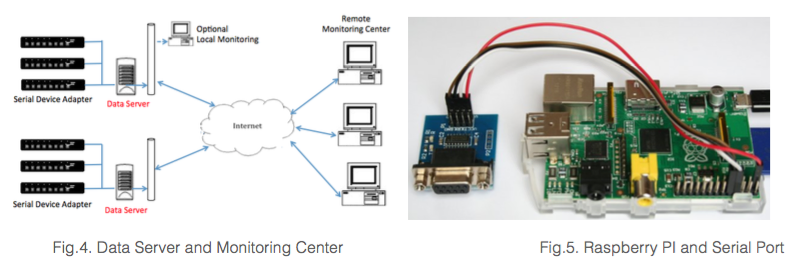
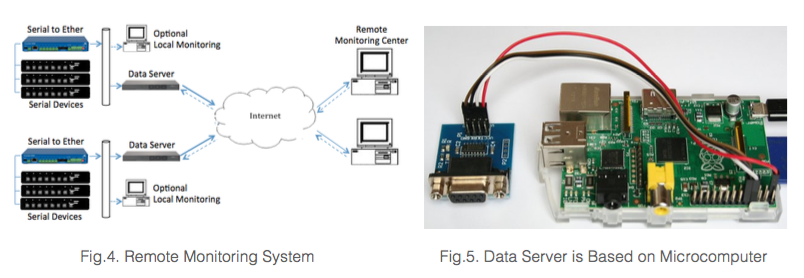
edit

diff --git a/index.html b/index.html
@@ -19,100 +19,102 @@
 	<div class="container">
 		<div class="section">
 			<h3>An open-source C++ library for network programming (NetB)</h3>
-			<p>NetB was originally initiated as my class project for Computer Networks, when I 
-				was a student at the George Washington University. It has been evolving as the 
-				result of my practice-based learning of network programming, which involves 
-				object-oriented design and design partterns, socket API, C++ exception handling, 
-				asynchronous I/O with event-driven notification (reactor design pattern), popular 
-				Internet protocols and message serialization. NetB is not a software framework; 
-				it is a C++ library consists of the components useful for assembling network 
-				applications (Fig.1)</p>
+			<p>NetB was originally initiated as my class project for Computer Networks, when I was 
+				a student at the George Washington University. It has been evolving as the result 
+				of my practice-based learning of network programming, which involves object-oriented 
+				design and design patterns, C++ exception handling, socket API, asynchronous I/O 
+				with socket de-multiplexing and event-driven notifications (reactor pattern), I/O 
+				buffering, important Internet protocols and protocol message serialization. NetB is 
+				not a software framework; it was designed as a C++ library consists of the components 
+				useful for assembling network applications (Fig.1). </p>
 			<img src="./images/fig-1.png" />
-			<p>NetB has been now released as an open-source software library under GPL license. 
-				The repository of source code and documents is at <a href="https://github.com/maoxuli/netb">
-				https://github.com/maoxuli/netb.</a>
-				It is still under development and there is no guarantee for the stability, but you 
-				may use it as a good example or a code base for network programming. NetB will 
-				supports the major operating systems for server, PC, mobile device, and microcomputer 
-				(Raspberry PI). </p>
+			<p>NetB has been now released as an open-source software library under GPL license. The 
+				repository of source code and documents is at <a href="https://github.com/maoxuli/netb">
+				https://github.com/maoxuli/netb</a>. It is still under development and there is no 
+				guarantee for the stability, but you may use it as a good example or a code base for 
+				network programming. NetB will supports the major operating systems for server, PC, 
+				mobile device, and microcomputer (Raspberry PI). </p>
 		</div>
 		<div class="section">
 			<h3>Real-Time Remote Monitoring and Peer-to-Peer VPN</h3>
-			<p>Typical remote monitoring system used in industry is based on local communication 
-				links such as RS422/RS485 serial bus or RF signal channels. A local monitoring 
-				station can connect a certain number of electronic sensors and cover a limited 
-				distance. Larger system usually means more monitoring stations and more attendants 
-				(Fig.2). I had worked in a team (as consultant and contract software engineer) to 
-				develop a remote monitoring system based on public Internet, which supports a large 
-				number of unattended monitoring stations with a single remote monitoring center (Fig.3).</p>
+			<p>Typical remote monitoring system used in industry is based on local communication links 
+				such as RS422/RS485 serial bus or RF signal channels. A local monitoring station can 
+				connect a certain number of electronic sensors and cover a limited distance. Larger 
+				system usually means more monitoring stations and more attendants (Fig.2). I had worked 
+				in a team (as consultant and contract software engineer) to develop a remote monitoring 
+				system based on public Internet, which supports a large number of unattended monitoring 
+				stations with a single remote monitoring center (Fig.3).</p>
 			<img src="./images/fig-2-3.png" />
-			<p>We developed a data server for unattended monitoring stations, which receives monitoring 
-				data from local serial devices and forwards it to remote monitoring center over public 
-				Internet (Fig.4). The hardware platform is a headless microcomputer (Fig.5). I was in 
-				charge of the development of software running on data server, as well as the SDK used 
-				for development of software running in the monitoring center. </p>
+			<p>Serial to Ethernet devices deployed in unattended monitoring stations receive monitoring 
+				data from local communication links and multicast it to a group on local Ethernet. We 
+				developed a data server based on a headless microcomputer (Raspberry PI) to filter and 
+				forward requested monitoring data from local network to remote monitoring center over 
+				public Internet (Fig.3-5). I was in charge of the development of software running on 
+				data server, as well as the SDK used for development of software running in the 
+				monitoring center. It involves socket programming for UDP protocol and  multicasting, 
+				as well as a high-efficient model for packet filtering and forwarding.</p>
 			<img src="./images/fig-4-5.png" />
 			<p>In addition, we developed a dedicated VPN (virtual private network) system to enhance 
-				the network security and performance. The VPN works in a peer-to-peer (P2P) manner 
-				and in most cases it can establish direct UDP connections across public Internet, 
-				which is a guarantee for high throughput and low latency.  </p>
+				the network security and performance. The VPN works in peer-to-peer (P2P) sytle and 
+				in most cases it can establish direct UDP connections across public Internet for 
+				devices behind NAT (network address translator), which is a guarantee for high 
+				throughput and low latency. My work involves TUN/TAP virtual network interfaces, NAT 
+				traversal with STUN/TURN/ICE and UDP hole punching. </p>
 		</div>
 		<div class="section">
 			<h3>Live and On-Demand Peer-to-Peer Video Streaming</h3>
-			<p>In a traditional media streaming system, content is constantly delivered directly from 
-				media server to each of the clients. Bandwidth cost usually determined application 
-				deployment and system expansion (Fig.6). I had ever led a team to develop a peer-to-peer 
-				(P2P) media streaming system to support low-cost streaming media. In the system, all 
-				clients work as peer nodes simultaneously functioning as “clients” and “servers” to the 
-				other nodes. Media content is firstly sliced into pieces by source server, and then the 
-				content pieces are delivered from server to nodes or forwarded from nodes to nodes as 
-				requested, rather than constantly (Fig.7). </p>
+			<p>Typical media streaming systems deliver content to clients directly from media server, 
+				constantly. Bandwidth cost had limited applications deployment and system expansion 
+				(Fig.6). I had led a team to develop a peer-to-peer (P2P) media streaming system that 
+				supports low-cost streaming media. All clients in the system work as equal peer nodes 
+				simultaneously functioning as “clients” and “servers” to the other nodes. Media content 
+				is sliced into pieces by source server, and then content pieces are delivered from 
+				server to nodes or from nodes to nodes as requested, rather than constantly (Fig.7). </p>
 			<img src="./images/fig-6-7.png" />
-			<p>A node has a playing position and usually caches a range of content around its current 
-				position. Distance of two nodes is the difference of their playing positions. Each node
-				keeps a list of peers (other known nodes) that sorted on the distance. A node distributes 
-				its cache information periodically to neighbors (some nearest peers), and forwards 
-				received cache information to neighbors too (Fig.3). Nodes always try to download content 
-				pieces from selected neighbors (partners) firstly, and only turn to source server when a 
-				slice cannot be delivered in time from partners. A node will schedule downloading from 
-				partners or from server based on the maps of content availability updated by partners. 
-				In addition, nodes also report their cache information periodically to a tracker sever, 
-				so that the tracker server actually keeps a complete list of nodes and their cache 
-				information. When a node just joins the system or in any emergent situations, it may 
-				fetch an initial list of peers from the tracker server (Fig.8). </p>
+			<p>A node has a playing position and caches a range of content around its current position. 
+				Distance of two nodes is the difference of their playing positions. Each node keeps a 
+				list of peers (other known nodes) that sorted on the distance. A node distributes its 
+				cache information periodically to neighbors (some nearest peers), and forwards received 
+				cache information to neighbors too (Fig.3). Nodes always try to download content pieces 
+				firstly from partners (selected neighbors), and only turn to server when a slice cannot 
+				be delivered in time from partners. Nodes schedule downloading from partners or from 
+				server based on the maps of content availability updated by partners. In addition, nodes 
+				also report their cache information periodically to a tracker sever, so that the tracker 
+				server keeps a complete list of nodes and their cache information. When a node just joins 
+				the system or in any emergent situations, it may fetch an initial list of peers from the 
+				tracker server (Fig.8).</p>
 			<img src="./images/fig-8.png" />
 			<p>We had also developed a web-based application to provide live and on-demand video streaming 
 				service, which supports both traditional media streaming system and our P2P media streaming 
 				system as backbone. The application consists of web portal, users management, and 
 				advertisement management. I worked as a director to contribute to product requirements, 
-				system design, and daily management of software development (Fig.8). </p>
+				system design, and daily management of software development (Fig.8).</p>
 		</div>
 		<div class="section">
 			<h3>Digital and Network-Based Video Surveillance</h3>
-			<p>I spent the first 5 years of my career as software developer in the area of video 
-				surveillance, during its latest technology shift from analog CCTV (closed-circuit 
-				television) surveillance to full digital, network-based video surveillance. I started 
-				from very basic work: C++ coding, debugging, and software versioning, in which, however, 
-				I got access to the complete source code and documents of a well-designed modern video 
-				surveillance system and I could thereby explore and understand every details of the 
-				software in a short term. Basically, the system is centered on a digital video recorder 
-				(DVR), with limited remote access over Internet (Fig.9). </p>
+			<p>I spent the first 5 years of my career as a software developer in the area of video 
+				surveillance, during its latest technology shift from analog CCTV (closed-circuit television) 
+				surveillance to full digital, network-based video surveillance systems. I started from very 
+				basic work: C++ coding, debugging, and software versioning, in which, however, I got access 
+				to the entire source code and documents of a well-designed modern video surveillance system 
+				and I could thereby explore and understand every details of the software in a short term. 
+				Basically, the system is centered on a digital video recorder (DVR), with remote access over 
+				Internet (Fig.9). </p>
 			<img src="./images/fig-9.png" />
 			<p>The system supports multiple cameras and various peripheral devices for status detection 
 				or control. For example, a video matrix switcher is usually used to switch videos to 
 				wall-mount monitors or multi-channel DVR. The peripheral devices are connected to DVR 
-				through serial communication links. Videos are captured, digitized, and compressed by 
-				DVR, and recorded into files on hard drive. Remote access over Internet is an important 
+				through serial communication links. Videos are captured, digitized, and compressed by DVR, 
+				and recorded into files on hard drive.  Remote access over Internet is an important 
 				extension to local video surveillance. I had developed ActiveX controls and web pages 
-				that can work with IE browser to support web style remote surveillance. Then users may 
-				connect to DVR over Internet to remotely control peripheral devices, receive real-time 
-				streaming videos, or retrieve recorded videos. </p>
-			<p>I had also led to develop a plug-in style software framework for video surveillance 
-				system to support built-in intelligence, such as sound and motion detection, adaptive 
-				adjustment of video’s dimension, resolution, and frame rate, face detection and 
-				recognition, and any other user-demand functions. Image analysis and processing 
-				algorithms are implemented in a series of software plug-ins (filters), which can be 
-				chained working as required.  </p>
+				that can work with IE browser to support web style remote surveillance, with which users 
+				may connect to DVR over Internet to remotely control peripheral devices, receive real-time 
+				streaming videos, or retrieve recorded videos.</p>
+			<p>I had also led to develop a plug-in style software framework for video surveillance system 
+				to support built-in intelligence, such as sound and motion detection, face detection and 
+				recognition, adaptive adjustment of video’s dimension, resolution, and frame rate, and any 
+				other user-demand functions. Image analysis and processing algorithms are implemented in a 
+				series of software plug-ins (filters), which can be chained working as required. </p>
 		</div>
 	</div>
 </div>
